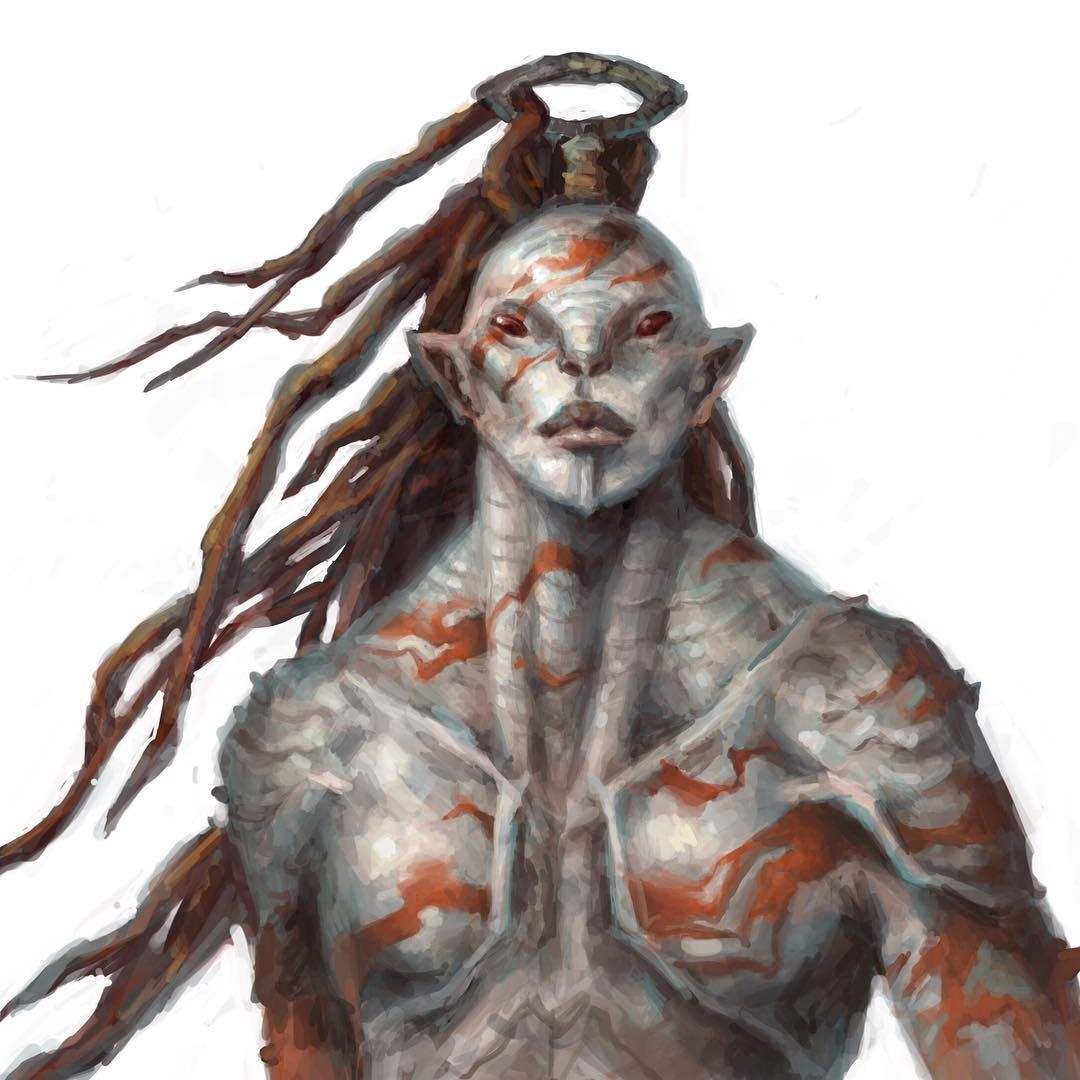
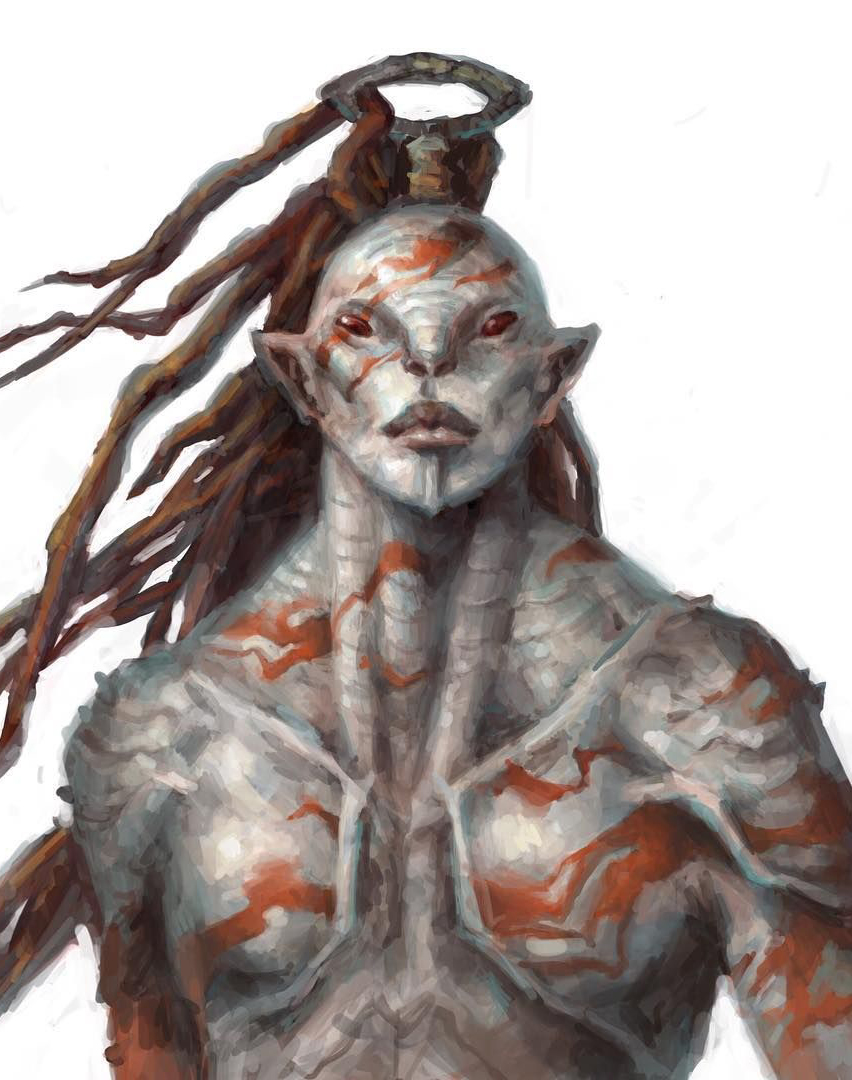
Art update + glyph page

diff --git a/content/glyphs.html b/content/glyphs.html
@@ -68,118 +68,152 @@
     </header>
     <div class="d-flex flex-column" id="glyphs-container">
         <h1 class="text-center mt-5 arjulian">GLYPHS</h1>
-        <ul class="list-unstyled w-75 align-self-center" id="glyph-list">
-            <li class="media mb-5">
-              <!-- src="../assets/glyphs/Glyph-01.png" class="mr-3 " style="width: 200px;"-->
-              <img src="https://via.placeholder.com/100.jpg?text=Glyph" class="mr-3" >
+        <ul class="list-unstyled align-self-center" id="glyph-list">
+            <li class="media mb-5 pr-2 ">
+              <img src="../assets/glyphs/ancient_g02.png" class="mr-3" >
               <div class="media-body">
                 <h5 class="mt-0 mb-1">TRUTH</h5>
                 Found scarred onto a dead Direskin in the caravan wrecks, and on Lily the spiderling girl's pendant.
               </div>
             </li>
-            <li class="media mb-5">
-              <img src="https://via.placeholder.com/100.jpg?text=Glyph" class="mr-3">
+            <li class="media mb-5 pr-2 ">
+              <img src="../assets/glyphs/ancient_g01.png" class="mr-3">
               <div class="media-body">
                 <h5 class="mt-0 mb-1">FIRE or LIGHTNING</h5>
                 Found on a stick with a mechanism that creates a spark.
               </div>
             </li>
-            <li class="media mb-5">
-              <img src="https://via.placeholder.com/100.jpg?text=Glyph" class="mr-3 ">
+            <li class="media mb-5 pr-2 ">
+              <img src="../assets/glyphs/ancient_g03.png" class="mr-3 ">
               <div class="media-body">
                 <h5 class="mt-0 mb-1">WATER</h5>
                 Seen on a fancy waterskin that refills everyday.
               </div>
             </li>
-            <li class="media mb-5">
-              <img src="https://via.placeholder.com/100.jpg?text=Glyph" class="mr-3 ">
+            <li class="media mb-5 pr-2 ">
+              <img src="../assets/glyphs/ancient_g04.png" class="mr-3 ">
               <div class="media-body">
                 <h5 class="mt-0 mb-1">LIGHT (?)</h5>
                 Seen on a 'lightstick', given to Kalar by the Seer of the Song of High Town.
               </div>
             </li>
-            <li class="media mb-5">
-              <img src="https://via.placeholder.com/100.jpg?text=Glyph" class="mr-3 ">
+            <li class="media mb-5 pr-2 ">
+              <img src="../assets/glyphs/ancient_g12.png" class="mr-3 ">
               <div class="media-body">
                 <h5 class="mt-0 mb-1">LIFE</h5>
                 Inside a weird poop-avocado pit, engraved on a crystal.
               </div>
             </li>
-            <li class="media mb-5">
-              <img src="https://via.placeholder.com/100.jpg?text=Glyph" class="mr-3 ">
+            <li class="media mb-5 pr-2 ">
+              <img src="../assets/glyphs/ancient_g15.png" class="mr-3 ">
               <div class="media-body">
                 <h5 class="mt-0 mb-1">SUSTENANCE (?)</h5>
                 Food or otherwise?
               </div>
             </li>
-            <li class="media mb-5">
-              <img src="https://via.placeholder.com/100.jpg?text=Glyph" class="mr-3 ">
+            <li class="media mb-5 pr-2 ">
+              <img src="../assets/glyphs/ancient_g14.png" class="mr-3 ">
               <div class="media-body">
                 <h5 class="mt-0 mb-1">NOT(?)</h5>
                 We think it means ‘not’, or in a way it means the inverse of what follows it
               </div>
             </li>
-            <li class="media mb-5">
-              <img src="https://via.placeholder.com/100.jpg?text=Glyph" class="mr-3 ">
+            <li class="media mb-5 pr-2 ">
+              <img src="../assets/glyphs/ancient_g11.png" class="mr-3 ">
               <div class="media-body">
                 <h5 class="mt-0 mb-1">PERIOD</h5>
                 Literally that.
               </div>
             </li>
-            <li class="media mb-5">
-              <img src="https://via.placeholder.com/100.jpg?text=Glyph" class="mr-3 ">
+            <li class="media mb-5 pr-2 ">
+              <img src="../assets/glyphs/ancient_g05.png" class="mr-3 ">
               <div class="media-body">
-                <h5 class="mt-0 mb-1">XXXX</h5>
-                XXXX
+                <h5 class="mt-0 mb-1">Meaning Unknown</h5>
+                Seen as part of a sentence/string of glyphs.
               </div>
             </li>
-            <li class="media mb-5">
-              <img src="https://via.placeholder.com/100.jpg?text=Glyph" class="mr-3 ">
+            <li class="media mb-5 pr-2 ">
+              <img src="../assets/glyphs/ancient_g06.png" class="mr-3 ">
               <div class="media-body">
-                <h5 class="mt-0 mb-1">XXXX</h5>
-                XXXX
+                <h5 class="mt-0 mb-1">Meaning Unknown</h5>
+                Seen as part of a sentence/string of glyphs.
               </div>
             </li>
-            <li class="media mb-5">
-              <img src="https://via.placeholder.com/100.jpg?text=Glyph" class="mr-3  ">
+            <li class="media mb-5 pr-2 ">
+              <img src="../assets/glyphs/ancient_g07.png" class="mr-3  ">
               <div class="media-body">
-                <h5 class="mt-0 mb-1">XXXX</h5>
-                XXXX
+                <h5 class="mt-0 mb-1">Meaning Unknown</h5>
+                Seen as part of a sentence/string of glyphs.
               </div>
             </li>
-            <li class="media mb-5">
-              <img src="https://via.placeholder.com/100.jpg?text=Glyph" class="mr-3 ">
+            <li class="media mb-5 pr-2 ">
+              <img src="../assets/glyphs/ancient_g08.png" class="mr-3 ">
               <div class="media-body">
-                <h5 class="mt-0 mb-1">XXXX</h5>
-                XXXX
+                <h5 class="mt-0 mb-1">Meaning Unknown</h5>
+                Seen as part of a sentence/string of glyphs.
               </div>
             </li>
-            <li class="media mb-5">
-              <img src="https://via.placeholder.com/100.jpg?text=Glyph" class="mr-3 ">
+            <li class="media mb-5 pr-2 ">
+              <img src="../assets/glyphs/ancient_g09.png" class="mr-3 ">
               <div class="media-body">
-                <h5 class="mt-0 mb-1">XXXX</h5>
-                XXXX
+                <h5 class="mt-0 mb-1">Meaning Unknown</h5>
+                Seen as part of a sentence/string of glyphs.
               </div>
             </li>
-            <li class="media mb-5">
-              <img src="https://via.placeholder.com/100.jpg?text=Glyph" class="mr-3 ">
+            <li class="media mb-5 pr-2 ">
+              <img src="../assets/glyphs/ancient_g10.png" class="mr-3 ">
               <div class="media-body">
-                <h5 class="mt-0 mb-1">XXXX</h5>
-                XXXX
+                <h5 class="mt-0 mb-1">Meaning Unknown</h5>
+                Seen as part of a sentence/string of glyphs.
               </div>
             </li>
-            <li class="media mb-5">
-              <img src="https://via.placeholder.com/100.jpg?text=Glyph" class="mr-3 ">
+            <li class="media mb-5 pr-2 ">
+              <img src="../assets/glyphs/ancient_g13.png" class="mr-3 ">
               <div class="media-body">
-                <h5 class="mt-0 mb-1">XXXX</h5>
-                XXXX
+                <h5 class="mt-0 mb-1">Meaning Unknown</h5>
+                Seen as part of a sentence/string of glyphs.
               </div>
             </li>
-            <li class="media sortme">
-              <img src="https://via.placeholder.com/100.jpg?text=Glyph" class="mr-3 ">
+            <li class="media mb-5 pr-2 ">
+              <img src="../assets/glyphs/ancient_g16.png" class="mr-3 ">
               <div class="media-body">
-                <h5 class="mt-0 mb-1 glyph-title">XXXX</h5>
-                XXXX
+                <h5 class="mt-0 mb-1">Meaning Unknown</h5>
+                Seen as part of a sentence/string of glyphs.
+              </div>
+            </li>
+            <li class="media mb-5 pr-2 ">
+              <img src="../assets/glyphs/ancient_g17.png" class="mr-3 ">
+              <div class="media-body">
+                <h5 class="mt-0 mb-1">Meaning Unknown</h5>
+                Seen as part of a sentence/string of glyphs.
+              </div>
+            </li>
+            <li class="media mb-5 pr-2 ">
+              <img src="../assets/glyphs/ancient_g18.png" class="mr-3 ">
+              <div class="media-body">
+                <h5 class="mt-0 mb-1">Meaning Unknown</h5>
+                Seen as part of a sentence/string of glyphs.
+              </div>
+            </li>
+            <li class="media mb-5 pr-2 ">
+              <img src="../assets/glyphs/ancient_g19.png" class="mr-3 ">
+              <div class="media-body">
+                <h5 class="mt-0 mb-1">Meaning Unknown</h5>
+                Seen as part of a sentence/string of glyphs.
+              </div>
+            </li>
+            <li class="media mb-5 pr-2 ">
+              <img src="../assets/glyphs/ancient_g20.png" class="mr-3 ">
+              <div class="media-body">
+                <h5 class="mt-0 mb-1">Meaning Unknown</h5>
+                Seen as part of a sentence/string of glyphs.
+              </div>
+            </li>
+            <li class="media mb-5 pr-2 ">
+              <img src="../assets/glyphs/ancient_g21.png" class="mr-3 ">
+              <div class="media-body">
+                <h5 class="mt-0 mb-1 glyph-title">Meaning Unknown</h5>
+                Seen as part of a sentence/string of glyphs.
               </div>
             </li>
             
@@ -193,9 +227,9 @@
     <script src="https://code.jquery.com/jquery-3.5.1.slim.min.js" integrity="sha384-DfXdz2htPH0lsSSs5nCTpuj/zy4C+OGpamoFVy38MVBnE+IbbVYUew+OrCXaRkfj" crossorigin="anonymous"></script>
     <script src="https://cdn.jsdelivr.net/npm/popper.js@1.16.1/dist/umd/popper.min.js" integrity="sha384-9/reFTGAW83EW2RDu2S0VKaIzap3H66lZH81PoYlFhbGU+6BZp6G7niu735Sk7lN" crossorigin="anonymous"></script>
     <script src="https://stackpath.bootstrapcdn.com/bootstrap/4.5.2/js/bootstrap.min.js" integrity="sha384-B4gt1jrGC7Jh4AgTPSdUtOBvfO8shuf57BaghqFfPlYxofvL8/KUEfYiJOMMV+rV" crossorigin="anonymous"></script>
-    <script>
+    <!-- <script>
       $(document).ready(function() {
-        $('.sortme').sort(function(a, b) {
+        $('.mb-5').sort(function(a, b) {
           if (a.getElementsByClassName('glyph-title')[0].innerText < b.getElementsByClassName('glyph-title')[0].innerText) {
             return -1;
           } else {
@@ -203,6 +237,6 @@
           }
         }).appendTo('#glyph-list');
       });
-    </script>
+    </script> -->
 </body>
 </html>

diff --git a/content/rules.html b/content/rules.html
@@ -70,7 +70,7 @@
 
     <div class="container-fluid">
         <div class="row">
-          <nav class="col-sm-3 col-4 sticky-top align-self-start" id="myScrollspy">
+          <nav class="nav nav-pills col-sm-3 col-4 sticky-top align-self-start" id="myScrollspy">
             <ol type="I" class="flex-column">
               <li class="nav-item">
                 <a class="nav-link active" href="#section1">Dreadful Options in Pergasha</a>
@@ -115,34 +115,34 @@
                 <a class="nav-link" href="#section2">Gaining Levels and Abilities</a>
               </li>
               <li class="nav-item">
-                <a class="nav-link" href="#section3">Section 3</a>
+                <a class="nav-link" href="#section3">Inspiration Points & Cheating Fate</a>
               </li>
               <li class="nav-item">
-                <a class="nav-link" href="#section4">Section 4</a>
+                <a class="nav-link" href="#section4">Wealth</a>
               </li>
               <li class="nav-item">
-                <a class="nav-link" href="#section5">Section 5</a>
+                <a class="nav-link" href="#section5">Inventory Space</a>
               </li>
               <li class="nav-item">
-                <a class="nav-link" href="#section6">XXX</a>
+                <a class="nav-link" href="#section6">Combat</a>
               </li>
               <li class="nav-item">
-                <a class="nav-link" href="#section7">XXX</a>
+                <a class="nav-link" href="#section7">Injuries, Exhaustion & Death</a>
               </li>
               <li class="nav-item">
-                <a class="nav-link" href="#section8">XXX</a>
+                <a class="nav-link" href="#section8">Resting & Recovery</a>
               </li>
               <li class="nav-item">
-                <a class="nav-link" href="#section9">XXX</a>
+                <a class="nav-link" href="#section9">How Skills Work</a>
               </li>
               <li class="nav-item">
-                <a class="nav-link" href="#section10">XXX</a>
+                <a class="nav-link" href="#section10">Creating Your Character</a>
               </li>
               <li class="nav-item">
-                <a class="nav-link" href="#section11">XXX</a>
+                <a class="nav-link" href="#section11">Skills</a>
               </li>
               <li class="nav-item">
-                <a class="nav-link" href="#section12">XXX</a>
+                <a class="nav-link" href="#section12">Psionics</a>
               </li>
             </ol>
           </nav>
@@ -154,7 +154,7 @@
               
             </div>
             <div id="section2">
-                <h1 class="arjulian">Gaining Levels and Abilities</h1>
+                <h1 class="arjulian">Gaining Levels & Abilities</h1>
               
               </div>
               <div id="section3">
@@ -170,31 +170,31 @@
               
               </div>
               <div id="section6">
-                <h1 class="arjulian">XXXX</h1>
+                <h1 class="arjulian">Combat</h1>
               
               </div>
               <div id="section7">
-                <h1 class="arjulian">XXXX</h1>
+                <h1 class="arjulian">Injuries, Exhaustion & Death</h1>
               
               </div>
               <div id="section8">
-                <h1 class="arjulian">XXXX</h1>
+                <h1 class="arjulian">Resting & Recovery</h1>
               
               </div>
               <div id="section9">
-                <h1 class="arjulian">XXXX</h1>
+                <h1 class="arjulian">How Skills Work</h1>
               
               </div>
               <div id="section10">
-                <h1 class="arjulian">XXXX</h1>
+                <h1 class="arjulian">Creating Your Character</h1>
               
               </div>
               <div id="section11">
-                <h1 class="arjulian">XXXX</h1>
+                <h1 class="arjulian">Skills</h1>
               
               </div>
               <div id="section12">
-                <h1 class="arjulian">XXXX</h1>
+                <h1 class="arjulian">Psionics</h1>
               
               </div>
           </div>

diff --git a/content/characters.html b/content/characters.html
@@ -19,7 +19,7 @@
 
         <nav class="navbar navbar-dark navbar-expand-lg">
             <div class="navbar-brand  mr-4">
-                <img id="dreadful-logo" src="../assets/logos/dreadful_odysseys_pergasha_logo-dark_theme.png">
+                <img id="dreadful-logo" src="../assets/logos/dreadful_odysseys_pergasha_logo-dark_theme.jpg">
             </div>
             <button class="navbar-toggler" type="button" data-toggle="collapse" data-target="#navbarNavDropdown" aria-controls="navbarNavDropdown" aria-expanded="false" aria-label="Toggle navigation">
             <span class="navbar-toggler-icon"></span>
@@ -122,7 +122,7 @@
     <div class="flip-card m-2 gem pergashan sortme">
       <div class="flip-card-inner">
         <div class="flip-card-front">
-          <img src="../assets/characters/eoni.png" style="height: 380px; width: 300px;" alt="Eoni">
+          <img src="../assets/characters/eoni.jpg" style="height: 380px; width: 300px;" alt="Eoni">
           <span class="character-name">Eoni</span>
           <div class="character-tag text-center">
             <span class="badge badge-secondary tribe-tag">Gem Tribe</span>
@@ -139,7 +139,7 @@
     <div class="flip-card m-2 storm ormicans touched-kin sortme">
       <div class="flip-card-inner">
         <div class="flip-card-front">
-          <img src="../assets/characters/barashtu.png" style="height: 380px; width: 300px;" >
+          <img src="../assets/characters/barashtu.jpg" style="height: 380px; width: 300px;" >
           <span class="character-name">Barashtu</span>
           <div class="text-center">
             <span class="badge badge-success">Ormican</span>
@@ -158,7 +158,7 @@
     <div class="flip-card m-2 sand touched-kin sortme">
       <div class="flip-card-inner">
         <div class="flip-card-front">
-          <img src="../assets/characters/kalar.png" style="height: 380px; width: 300px;" >
+          <img src="../assets/characters/kalar.jpg" style="height: 380px; width: 300px;" >
           <span class="character-name">Kalar</span>
           <div class="character-tag text-center">
             <span class="badge badge-secondary tribe-tag">Sand Tribe</span>
@@ -176,7 +176,7 @@
     <div class="flip-card m-2 sand touched-kin sortme">
       <div class="flip-card-inner">
         <div class="flip-card-front">
-          <img src="../assets/characters/valar-emp.png" style="height: 380px; width: 300px;" >
+          <img src="../assets/characters/valar-emp.jpg" style="height: 380px; width: 300px;" >
           <span class="character-name">Valar</span>
           <div class="character-tag text-center">
             <span class="badge badge-secondary tribe-tag">Sand Tribe</span>
@@ -194,7 +194,7 @@
     <div class="flip-card m-2 tribeless lizardfolk sortme">
       <div class="flip-card-inner">
         <div class="flip-card-front">
-          <img src="../assets/characters/jax-emp.png" style="height: 380px; width: 300px;" >
+          <img src="../assets/characters/jax-emp.jpg" style="height: 380px; width: 300px;" >
           <span class="character-name">Jax</span>
           <div class="character-tag text-center">
             <span class="badge badge-secondary">Tribeless</span>
@@ -421,7 +421,7 @@
     <div class="flip-card m-2 nesters touched-kin council sortme">
       <div class="flip-card-inner">
         <div class="flip-card-front">
-          <img src="../assets/characters/chalise.png" style="height: 380px; width: 300px;" >
+          <img src="../assets/characters/chalise.jpg" style="height: 380px; width: 300px;" >
           <span class="character-name">Chalise</span>
           <div class="character-tag text-center">
             <span class="badge badge-success">Council</span>
